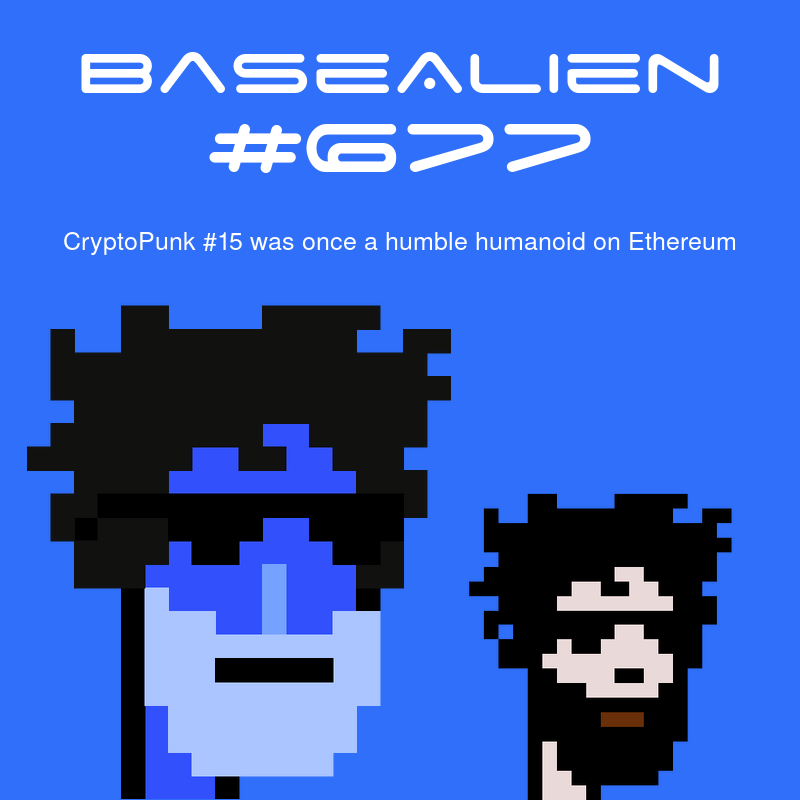
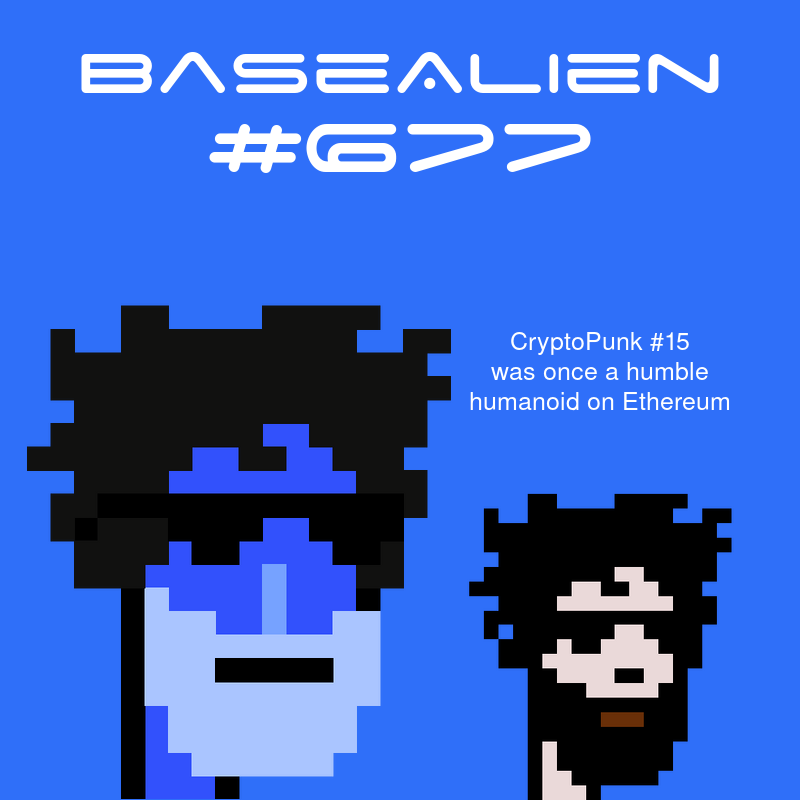
change example image

Changed region(s): [[0.5938, 0.4062, 0.9062, 0.5312], [0.0625, 0.2812, 0.9375, 0.3125]]

diff --git a/src/App/Service/Images/BaseAliens/BaseAlienToCryptoPunk.php b/src/App/Service/Images/BaseAliens/BaseAlienToCryptoPunk.php
@@ -144,7 +144,7 @@ class BaseAlienToCryptoPunk extends BaseTextImage
 //        $draw->setFont(ROOT . "/assets/fonts/space_age-webfont.ttf");
         $draw->setFontSize(25);
         $draw->setFillColor(new \ImagickPixel('#ffffff'));
-        $draw->annotation(600, 350, $text1);
+        $draw->annotation(610, 350, $text1);
         $image->drawImage($draw);
 
         $draw = new \ImagickDraw();
@@ -152,7 +152,7 @@ class BaseAlienToCryptoPunk extends BaseTextImage
 //        $draw->setFont(ROOT . "/assets/fonts/space_age-webfont.ttf");
         $draw->setFontSize(25);
         $draw->setFillColor(new \ImagickPixel('#ffffff'));
-        $draw->annotation(600, 380, $text2);
+        $draw->annotation(610, 380, $text2);
         $image->drawImage($draw);
 
         $draw = new \ImagickDraw();
@@ -160,7 +160,7 @@ class BaseAlienToCryptoPunk extends BaseTextImage
 //        $draw->setFont(ROOT . "/assets/fonts/space_age-webfont.ttf");
         $draw->setFontSize(25);
         $draw->setFillColor(new \ImagickPixel('#ffffff'));
-        $draw->annotation(600, 410, $text3);
+        $draw->annotation(610, 410, $text3);
         $image->drawImage($draw);
 
         return $draw;
